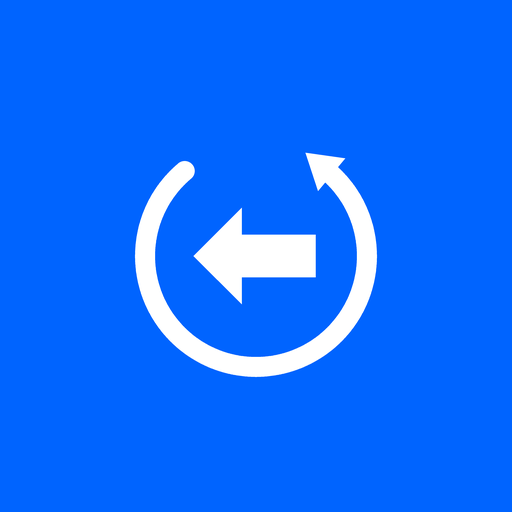
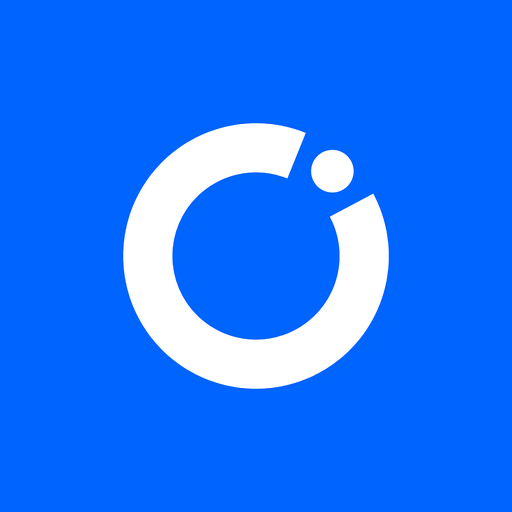
오운복 브랜드 v1(아이콘·워드마크·대표 문구) + 1.6.0 재점검 결과

Changed region(s): [[0.2188, 0.2188, 0.7812, 0.7812], [0.375, 0.4062, 0.625, 0.5938]]

diff --git a/docs/store/brand/make_brand.py b/docs/store/brand/make_brand.py
@@ -1,0 +1,134 @@
+"""오운복 브랜드 자산 생성기 (마크·워드마크·락업·앱 아이콘). 사람이 정한 기하로 다시 그린 벡터다.
+
+마크 '고리 속 한 순간' — 기준: 바깥 반지름 R=100
+  고리: 바깥 100, 안쪽 63(두께 37), 틈 40°(28°~68°, 수학 좌표 반시계 기준), 양 끝은 반지름 방향으로 평평하게 자름
+  점  : 틈 한가운데(48°) 반지름 86 위치, 점 반지름 16  → "되감다 멈춘 한 순간"
+  비율은 ChatGPT 시안 01(2026-10-25)을 측정한 값(바깥 183.1px, 두께 67.7px, 틈 28.5°~69.5°, 점 160.5px·r29.8px)을 정리한 것.
+워드마크: Pretendard Black(OFL 1.1) '오운복' 윤곽선, 부제 Pretendard Medium '오늘의 운전 복기'.
+출력: docs/store/brand/*.svg, *.png, app/src/main/res/drawable/ic_launcher_foreground.xml
+"""
+import math, os
+from pathlib import Path
+from fontTools.ttLib import TTFont
+from fontTools.pens.svgPathPen import SVGPathPen
+from fontTools.pens.transformPen import TransformPen
+from PIL import Image, ImageDraw, ImageFont
+
+OUT = Path(__file__).resolve().parent
+APP = OUT.parents[2] / "app" / "src" / "main" / "res" / "drawable"
+FONT_DIR = Path(r"C:\data\fonts\pretendard_dl\x\public\static")
+BLACK, MEDIUM = FONT_DIR / "Pretendard-Black.otf", FONT_DIR / "Pretendard-Medium.otf"
+BLUE, INK, PAPER, NIGHT = "#0064FF", "#131417", "#F7F8FA", "#131417"
+R_OUT, R_IN, GAP0, GAP1, DOT_R, DOT_D, DOT_A = 100.0, 63.0, 28.0, 68.0, 16.0, 86.0, 48.0
+
+def pt(cx, cy, r, deg):  # 수학 각도(반시계) → SVG 좌표(y 아래)
+    a = math.radians(deg); return cx + r * math.cos(a), cy - r * math.sin(a)
+
+def ring_path(cx, cy, s):
+    """틈 GAP0~GAP1을 뺀 고리(바깥 큰 호 + 안쪽 큰 호). s = 배율."""
+    o1, o2 = pt(cx, cy, R_OUT * s, GAP1), pt(cx, cy, R_OUT * s, GAP0)
+    i2, i1 = pt(cx, cy, R_IN * s, GAP0), pt(cx, cy, R_IN * s, GAP1)
+    ro, ri = R_OUT * s, R_IN * s
+    f = lambda p: f"{p[0]:.3f},{p[1]:.3f}"
+    # 68°에서 반시계로 돌아 28°까지(320°, 큰 호) → 안쪽 28°에서 시계로 68°까지
+    return (f"M{f(o1)} A{ro:.3f},{ro:.3f} 0 1,0 {f(o2)} L{f(i2)} "
+            f"A{ri:.3f},{ri:.3f} 0 1,1 {f(i1)} Z")
+
+def dot(cx, cy, s):
+    x, y = pt(cx, cy, DOT_D * s, DOT_A); return x, y, DOT_R * s
+
+def mark_svg(color_ring, color_dot, size=240, bg=None, pad=0.12):
+    s = size * (1 - 2 * pad) / (2 * (DOT_D + DOT_R) if DOT_D + DOT_R > R_OUT else 2 * R_OUT)
+    s = size * (1 - 2 * pad) / (2 * R_OUT)
+    cx = cy = size / 2; dx, dy, dr = dot(cx, cy, s)
+    bgr = f'<rect width="{size}" height="{size}" fill="{bg}"/>' if bg else ""
+    return (f'<svg xmlns="http://www.w3.org/2000/svg" viewBox="0 0 {size} {size}" width="{size}" height="{size}">{bgr}'
+            f'<path d="{ring_path(cx, cy, s)}" fill="{color_ring}" fill-rule="evenodd"/>'
+            f'<circle cx="{dx:.3f}" cy="{dy:.3f}" r="{dr:.3f}" fill="{color_dot}"/></svg>')
+
+def text_path(font_path, text, size, x, y, tracking=0.0):
+    """글자 윤곽선을 SVG path로. y = 기준선. tracking = em 비율 자간."""
+    f = TTFont(font_path); gs = f.getGlyphSet(); cmap = f.getBestCmap(); upm = f["head"].unitsPerEm
+    sc = size / upm; d = []; cur = x
+    for ch in text:
+        g = cmap.get(ord(ch))
+        if g is None: cur += size * 0.3; continue
+        pen = SVGPathPen(gs); gs[g].draw(TransformPen(pen, (sc, 0, 0, -sc, cur, y)))
+        d.append(pen.getCommands()); cur += gs[g].width * sc + tracking * size
+    return " ".join(d), cur - tracking * size - x
+
+def lockup_svg(theme="light"):
+    ink = INK if theme == "light" else "#FFFFFF"; bg = PAPER if theme == "light" else NIGHT
+    W, H = 1200, 420; s = 150 / R_OUT; cx, cy = 60 + R_OUT * s, H / 2
+    dx, dy, dr = dot(cx, cy, s)
+    wx = cx + R_OUT * s + 70
+    word, ww = text_path(BLACK, "오운복", 200, wx, 252, tracking=-0.02)
+    sub, sw = text_path(MEDIUM, "오늘의 운전 복기", 52, wx + 6, 340, tracking=0.32)
+    return (f'<svg xmlns="http://www.w3.org/2000/svg" viewBox="0 0 {W} {H}" width="{W}" height="{H}">'
+            f'<rect width="{W}" height="{H}" fill="{bg}"/>'
+            f'<path d="{ring_path(cx, cy, s)}" fill="{BLUE}"/><circle cx="{dx:.2f}" cy="{dy:.2f}" r="{dr:.2f}" fill="{BLUE}"/>'
+            f'<path d="{word}" fill="{ink}"/><path d="{sub}" fill="{ink}"/></svg>')
+
+def android_foreground():
+    """적응형 아이콘 전경 108dp. 마크 바깥 지름 56dp(안전 영역 66dp 안, 권장 48~66dp)."""
+    s = 28 / R_OUT; cx = cy = 54.0; dx, dy, dr = dot(cx, cy, s)
+    circ = f"M{dx - dr:.3f},{dy:.3f} a{dr:.3f},{dr:.3f} 0 1,0 {2 * dr:.3f},0 a{dr:.3f},{dr:.3f} 0 1,0 {-2 * dr:.3f},0 Z"
+    return f'''<?xml version="1.0" encoding="utf-8"?>
+<!-- 오운복 마크 '고리 속 한 순간'(docs/store/brand/make_brand.py가 생성). 끊긴 고리 = 되감기, 틈의 점 = 몰랐던 한 순간.
+     108dp 캔버스 가운데 지름 56dp(안전 영역 66dp 안). -->
+<vector xmlns:android="http://schemas.android.com/apk/res/android"
+    android:width="108dp" android:height="108dp"
+    android:viewportWidth="108" android:viewportHeight="108">
+    <path android:fillColor="#FFFFFF" android:pathData="{ring_path(cx, cy, s)}" />
+    <path android:fillColor="#FFFFFF" android:pathData="{circ}" />
+</vector>
+'''
+
+# ---------- PNG (8배 해상도로 그린 뒤 축소) ----------
+def draw_mark(d, cx, cy, s, ring, dotc, k=1.0):
+    pts = []
+    for i in range(361):  # 바깥 호: GAP1 → GAP0+360 반시계(각도 증가)
+        a = GAP1 + (360 - (GAP1 - GAP0)) * i / 360; pts.append(pt(cx, cy, R_OUT * s, a))
+    for i in range(361):
+        a = GAP0 + 360 - (360 - (GAP1 - GAP0)) * i / 360; pts.append(pt(cx, cy, R_IN * s, a))
+    d.polygon(pts, fill=ring)
+    x, y, r = dot(cx, cy, s); d.ellipse([x - r, y - r, x + r, y + r], fill=dotc)
+
+def icon_png(path, size=512, shape="square", fg="#FFFFFF", bg=BLUE):
+    S = 8; N = size * S; im = Image.new("RGBA", (N, N), (0, 0, 0, 0)); d = ImageDraw.Draw(im)
+    if shape == "square": d.rectangle([0, 0, N, N], fill=bg)
+    elif shape == "circle": d.ellipse([0, 0, N, N], fill=bg)
+    elif shape == "squircle": d.rounded_rectangle([0, 0, N, N], radius=N * 0.22, fill=bg)
+    elif shape == "teardrop": d.rounded_rectangle([0, 0, N, N], radius=N * 0.5, fill=bg); d.rectangle([N / 2, N / 2, N, N], fill=bg)
+    s = N * (56 / 108) / 2 / R_OUT; draw_mark(d, N / 2, N / 2, s, fg, fg)
+    out = im.resize((size, size), Image.LANCZOS)
+    if shape == "square": out = out.convert("RGB")
+    out.save(path); return out
+
+def lockup_png(path, theme="light", scale=1.0):
+    W, H = int(1200 * scale), int(420 * scale); S = 4
+    bg = PAPER if theme == "light" else NIGHT; ink = INK if theme == "light" else "#FFFFFF"
+    im = Image.new("RGB", (W * S, H * S), bg); d = ImageDraw.Draw(im); k = scale * S
+    s = 150 / R_OUT * k; cx, cy = (60 + 150) * k, H * S / 2
+    draw_mark(d, cx, cy, s, BLUE, BLUE)
+    wx = cx + 150 * k + 70 * k
+    fb = ImageFont.truetype(str(BLACK), int(200 * k)); fm = ImageFont.truetype(str(MEDIUM), int(52 * k))
+    x = wx
+    for ch in "오운복":
+        d.text((x, 252 * k), ch, font=fb, fill=ink, anchor="ls"); x += fb.getlength(ch) - 0.02 * 200 * k
+    x = wx + 6 * k
+    for ch in "오늘의 운전 복기":
+        d.text((x, 340 * k), ch, font=fm, fill=ink, anchor="ls"); x += fm.getlength(ch) + 0.32 * 52 * k
+    im.resize((W, H), Image.LANCZOS).save(path)
+
+if __name__ == "__main__":
+    (OUT / "mark_blue.svg").write_text(mark_svg(BLUE, BLUE), encoding="utf-8")
+    (OUT / "mark_white_on_blue.svg").write_text(mark_svg("#FFFFFF", "#FFFFFF", bg=BLUE), encoding="utf-8")
+    (OUT / "mark_mono_black.svg").write_text(mark_svg("#000000", "#000000"), encoding="utf-8")
+    (OUT / "lockup_light.svg").write_text(lockup_svg("light"), encoding="utf-8")
+    (OUT / "lockup_dark.svg").write_text(lockup_svg("dark"), encoding="utf-8")
+    (APP / "ic_launcher_foreground.xml").write_text(android_foreground(), encoding="utf-8")
+    icon_png(OUT.parent / "icon_512.png")
+    for shp in ("square", "circle", "squircle", "teardrop"): icon_png(OUT / f"mask_{shp}.png", 256, shp)
+    lockup_png(OUT / "lockup_light.png", "light"); lockup_png(OUT / "lockup_dark.png", "dark")
+    print("ok")

diff --git a/docs/store/brand/BRAND.md b/docs/store/brand/BRAND.md
@@ -1,0 +1,42 @@
+# 오운복 브랜드 가이드 v1 (2026-10-25)
+
+## 한 줄
+**점수 대신, 내가 몰랐던 순간.** — 오운복은 운전 점수를 매기지 않는다. 정차한 뒤 내가 몰랐던 몇 순간을 조용히 되짚어 준다.
+
+## 마크: 고리 속 한 순간
+- 끊긴 고리 = 되감기(복기), 틈에 걸린 점 = 몰랐던 한 순간.
+- 기하(바깥 반지름 R=100 기준): 고리 바깥 100·안쪽 63(두께 37), 틈 28°~68°(반지름 방향으로 평평하게 자름), 점은 48° 방향 반지름 86 위치·반지름 16.
+- 생성기: `make_brand.py`(이 폴더). 앱 아이콘 전경(`app/src/main/res/drawable/ic_launcher_foreground.xml`)도 같은 생성기에서 나온다.
+- 출발점: ChatGPT 시안 01(2026-10-25)의 형태를 측정해 사람이 정한 도형으로 다시 그림. AI 생성 이미지를 그대로 쓰지 않는다(저작권 보호는 사람이 만든 부분에만 인정되기 때문, `../branding_research.md` §5).
+
+## 워드마크·글꼴
+- 워드마크 "오운복": Pretendard Black, 자간 -0.02em, 윤곽선 변환.
+- 부제 "오늘의 운전 복기": Pretendard Medium, 자간 +0.32em.
+- Pretendard 1.3.9는 SIL Open Font License 1.1(`Pretendard_OFL_LICENSE.txt`). 앱 화면 글자는 계속 기기 시스템 글꼴(Asta Sans).
+
+## 색
+| 이름 | 값 | 쓰임 |
+|---|---|---|
+| Pleos Blue | #0064FF | 아이콘 바탕, 밝은 바탕 위 마크 |
+| Signal Blue | #297FFF | 어두운 바탕 위 강조(점, 앞 글자) |
+| Ink | #131417 | 밝은 바탕 글자, 어두운 바탕 |
+| Paper | #F7F8FA | 밝은 바탕 |
+
+## 쓰는 법
+- 앱 아이콘: 파랑 바탕 + 흰 마크(적응형, 108dp 캔버스 가운데 지름 56dp, monochrome은 전경과 같음).
+- 영상·어두운 화면: 흰 고리 + Signal Blue 점, 워드마크 흰색.
+- 세로 구성 "오늘의/운전/복기"(앞 글자만 파랑)는 포스터·인트로·PT 표지에만. 아이콘·헤더는 가로 락업.
+- 피할 것: 검정 사각 바탕 아이콘(카메라 앱처럼 보임), 그림자·3D·그라디언트, 고리 안 화살표, 현대·기아·Pleos 로고 결합.
+
+## 검증(2026-10-25, `validation_sheet.png`)
+마스크 4종(사각·원·둥근 사각·물방울) 잘림 없음, 48px에서 틈과 점 구분, 흑백·야간 바탕에서 형태 유지, 실제 Pleos 하단 바 아이콘 사이에서 구별됨.
+미확인: Pleos Figma 아이콘 템플릿 마스크(받지 못함).
+
+## 상표 검색(KIPRIS, 2026-10-25, 상품류 1~45 전체, 문자 상표)
+| 검색어 | 결과 |
+|---|---|
+| 오운복 | 정확히 같은 상표 없음. 부분 일치 1건 "스튜디오운복"(출원 2026-01-06, 38·41류 = 통신·교육/연예) — 이름 일부가 겹칠 뿐 다른 상표·다른 업종 |
+| 운전복기 | 0건 |
+| 오늘의 운전 | 1건 "고맙다 M! 오늘도 안전귀가 엠대리운전"(9류 등록) — 문구 일부 겹침, 다른 상표 |
+| 오운완(발음 비슷) | 9건, 대부분 **거절**(35·05·38·09·42·41류), 등록 1건은 "#오운완패치"(03·05·10류) — 흔한 유행어라 식별력이 약하다고 본 것으로 보임 |
+- 판단: 같은 이름의 선행 상표는 없다. 다만 "오운완" 거절 사례처럼 줄임말이 흔한 말로 받아들여지면 식별력 문제로 거절될 수 있다. 실제 출원(9류 소프트웨어·42류 서비스 등)은 변리사 상담 뒤에. 도형(로고) 유사 검색은 하지 않았다.

diff --git a/README.md b/README.md
@@ -2,7 +2,7 @@
 
 ## 앱 이름 및 한 줄 소개
 
-**오운복**(오늘의 운전 복기) — 운전 중에는 차량 신호를 구간 요약으로 기록하고, 차를 세운 뒤 깜빡이 사용과 감속 순간을 돌아보는 Pleos Connect 앱입니다.
+**오운복**(오늘의 운전 복기) — **점수 대신, 내가 몰랐던 순간.** 운전 중에는 차량 신호를 구간 요약으로 기록하고, 차를 세운 뒤 깜빡이 사용과 감속 순간을 돌아보는 Pleos Connect 앱입니다.
 
 **1.6.0 / versionCode 21 — 제출 버전.** 시속 25km 이상의 차선 변경을 사건이 끝난 뒤 최대 약 9초 늦게, 사건 앞뒤 0.5초를 기준선으로 삼는 창으로 판정합니다(핸들 영점·도로 곡률 영향 제거). 공개 실주행 데이터(현대·기아 8차종 74분)에서 현대 25/32, 기아 16/28을 잡았고, 낸 카드의 61%가 자이로 센서로 옆 이동이 확인됐습니다(1.5.2는 4/32·0/28, 43%). [설계와 검증](docs/WEEK16C_DESIGN.md) · [Kotlin 이식·시험 변경](docs/WEEK16C_KOTLIN_PORT.md) · 이전 실패 시도 [1차](docs/WEEK16_REALDATA_REDESIGN.md)·[2차](docs/WEEK16B_EVENT_CURVE.md).
 
